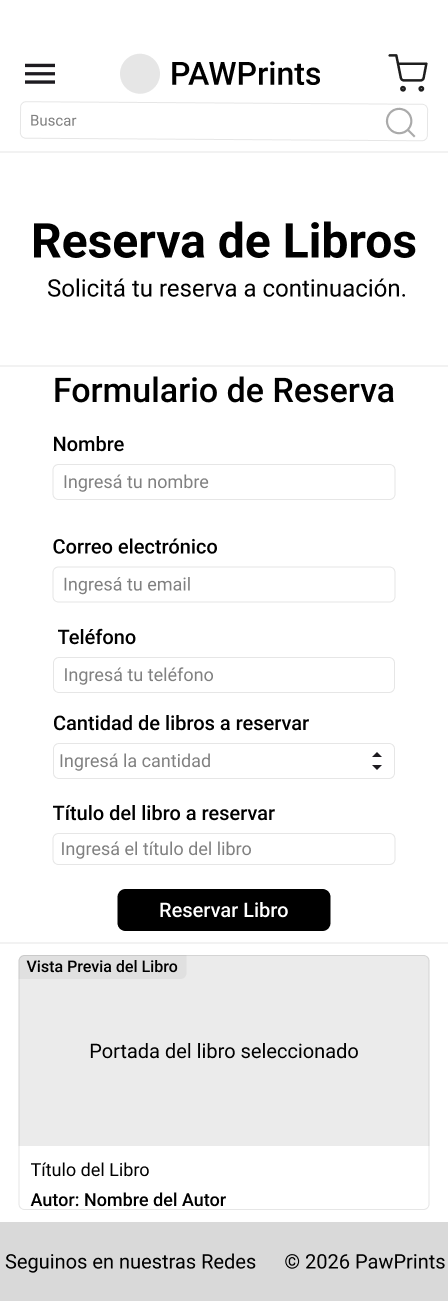
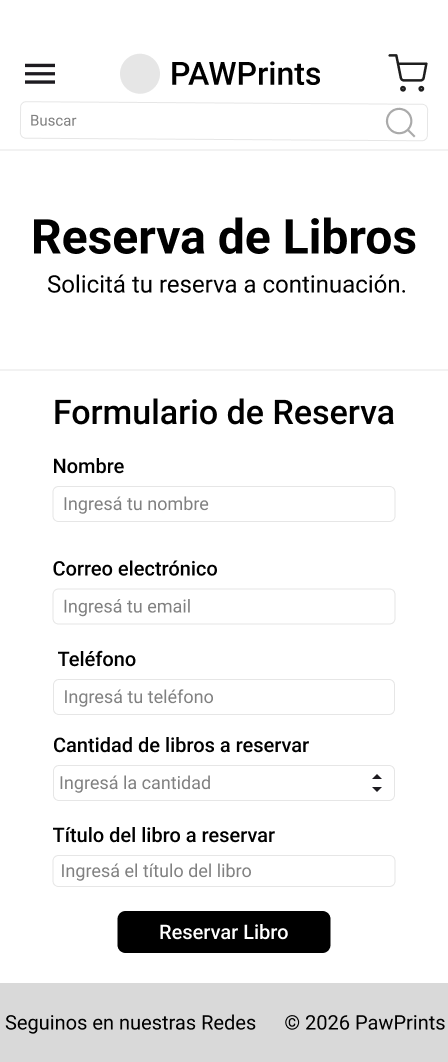
Formulario.css terminado, corregimos wireframes formulario

diff --git a/Maquetado web/styles/formulario.css b/Maquetado web/styles/formulario.css
@@ -1,0 +1,104 @@
+.Formulario{
+    display: flex;
+    flex-direction: column;
+    align-items: center;
+    text-align: center;
+}
+
+.Formulario h2{
+    font-size: 2.2rem;
+    color: var(--color-azul);
+    margin: 1rem 0;
+}
+
+.Formulario form{
+    display: flex;
+    flex-direction: column;
+    align-items: stretch;
+    width: 90%;
+    max-width: 500px;
+    margin: 0 auto;
+    padding:0;
+}
+
+.Formulario form label{
+    font-size: 1.1rem;
+    color: var(--color-azul);
+}
+
+* {
+    box-sizing: border-box;
+}
+
+.Formulario form input{
+    box-sizing: border-box;
+    width: 100%;
+    padding: 0.75rem;
+    border-radius: 5px;
+    border: 1px solid var(--color-azul);
+}
+
+.Formulario fieldset{
+    display: flex;
+    flex-direction: column;
+    text-align: left;
+    gap: 0.5rem;
+    margin: 0 0 1rem 0;
+}
+
+.Formulario legend{
+    display: none;
+}
+
+.Formulario button {
+  background-color: var(--color-magenta);
+  color: var(--color-fondo);
+  padding: 1rem 1rem;
+  border-radius: 30px;
+  font-weight: 700;
+  text-transform: uppercase;
+  text-shadow: none;
+  transition:
+    background-color 0.3s,
+    transform 0.3s;
+  border: none;
+  margin: 2rem auto;
+  width: fit-content;
+  min-width: 200px;
+}
+
+.Formulario button:hover {
+  background-color: var(--color-amarillo);
+  transform: scale(1.05);
+}
+
+/* DISEÑO PC (Más de 994px) SOLO INICIO */
+@media screen and (min-width: 994px) {
+    .Formulario {
+        margin: 0 auto;
+        max-width: 1200px;
+        width: 90%;
+        padding: 4rem 2rem;
+    }
+
+    .Formulario form {
+        display: grid;
+        grid-template-columns: 1fr 1fr; 
+        gap: 3rem;             
+        align-items: start;
+        max-width: none;
+        width: 80%;
+    }
+
+    .Formulario button{
+        grid-column: span 2;
+        justify-self: center;
+        width: 300px;
+    }
+
+    .Formulario fieldset {
+        margin: 0;
+        width: 100%;
+    }
+
+}

diff --git a/Maquetado web/formulario.html b/Maquetado web/formulario.html
@@ -40,7 +40,7 @@
         <input type="checkbox" id="menu-hamburguesa" class="menu-hamburguesa-check">
 
         <ul class="nav-lista">
-          <li><a href="index.html" class="nav-link pagina-actual"><span class="material-symbols-outlined simbolos">home</span>Inicio</a></li>
+          <li><a href="index.html" class="nav-link"><span class="material-symbols-outlined simbolos">home</span>Inicio</a></li>
           <li><a href="iniciarSesion.html" class="nav-link"><span class="material-symbols-outlined simbolos">login</span>Iniciar Sesión</a></li>
           <li><a href="SobreNosotros.html" class="nav-link"><span class="material-symbols-outlined simbolos">groups</span>Sobre Nosotros</a></li>
           <li><a href="catalogo.html" class="nav-link"><span class="material-symbols-outlined simbolos">menu_book</span> Catálogo</a></li>
@@ -88,8 +88,6 @@
             />
           </fieldset>
 
-          <br />
-
           <fieldset>
             <legend>Detalles del Libro</legend>
             <label for="CantLibro">Cantidad de libros a reservar</label>
@@ -103,7 +101,7 @@
               required
             />
 
-            <label for="TituloLibros">título del libro a reservar</label>
+            <label for="TituloLibros">Título del libro a reservar</label>
             <input
               type="text"
               id="TituloLibros"
@@ -114,18 +112,10 @@
             />
           </fieldset>
 
-          <br />
-
           <button type="submit">Reservar Libro</button>
         </form>
       </section>
 
-      <section class="preview">
-        <span>Vista Previa del Libro</span>
-        <img src="portada-LibroRelacionado" alt="Portada libro relacionado" />
-        <p><strong>Título del Libro</strong></p>
-        <p>Autor: Nombre del Autor</p>
-      </section>
     </main>
     <footer class="footer-principal">
       <address class="footer-direccion">

diff --git a/Maquetado web/styles/inicio.css b/Maquetado web/styles/inicio.css
@@ -104,30 +104,30 @@
 }
 
 /* TIENDA FÍSICA (Celular) */
-main > .tienda-fisica {
+.tienda-fisica {
   padding: 2rem 5%;
   display: flex;
   flex-direction: column;
   gap: 1rem;
 }
 
-main > .tienda-fisica .contenedor-mapa h2 {
+.tienda-fisica .contenedor-mapa h2 {
   color: var(--color-azul);
   font-size: 2rem;
 }
 
-main > .tienda-fisica figure {
+.tienda-fisica figure {
   margin: 0;
   width: 100%;
 }
 
-main > .tienda-fisica figure iframe {
+.tienda-fisica figure iframe {
   width: 100%;
   height: 250px;
   display: block;
 }
 
-main > .tienda-fisica address {
+.tienda-fisica address {
   background-color: var(--color-fondo);
   padding: 2rem;
   border-radius: 10px;
@@ -137,7 +137,7 @@ main > .tienda-fisica address {
   margin-top: 1rem;
 }
 
-main > .tienda-fisica address ul {
+.tienda-fisica address ul {
   margin-top: 1rem;
   padding-left: 1rem;
 }
@@ -146,8 +146,8 @@ main > .tienda-fisica address ul {
   color: var(--color-texto);
 }
 
-/* DISEÑO PC (Más de 768px) SOLO INICIO */
-@media screen and (min-width: 768px) {
+/* DISEÑO PC (Más de 994px) */
+@media screen and (min-width: 994px) {
   .promociones {
     display: flex;
     flex-wrap: wrap;
@@ -166,7 +166,7 @@ main > .tienda-fisica address ul {
     margin-bottom: 0;
   }
 
-  main > .tienda-fisica {
+  .tienda-fisica {
     display: flex;
     flex-direction: row;
     align-items: center;
@@ -174,18 +174,20 @@ main > .tienda-fisica address ul {
     gap: 4rem;
     padding: 4rem 10%;
   }
-  main > .tienda-fisica .contenedor-mapa {
+  
+  .tienda-fisica .contenedor-mapa {
     flex: 1.2; 
   }
 
-  main > .tienda-fisica figure {
+  .tienda-fisica figure {
     flex: 1;
     margin-bottom: 0;
   }
 
-  main > .tienda-fisica figure iframe {
+  .tienda-fisica figure iframe {
     height: 300px;
   }
+  
   .tienda-fisica address {
     flex: 1;
     text-align: left;

diff --git a/Maquetado web/styles/style.css b/Maquetado web/styles/style.css
@@ -3,4 +3,5 @@
 @import url('estructura.css');
 @import url('inicio.css');
 @import url('catalogo.css');
+@import url('formulario.css');
 @import url('SobreNosotros.css');
